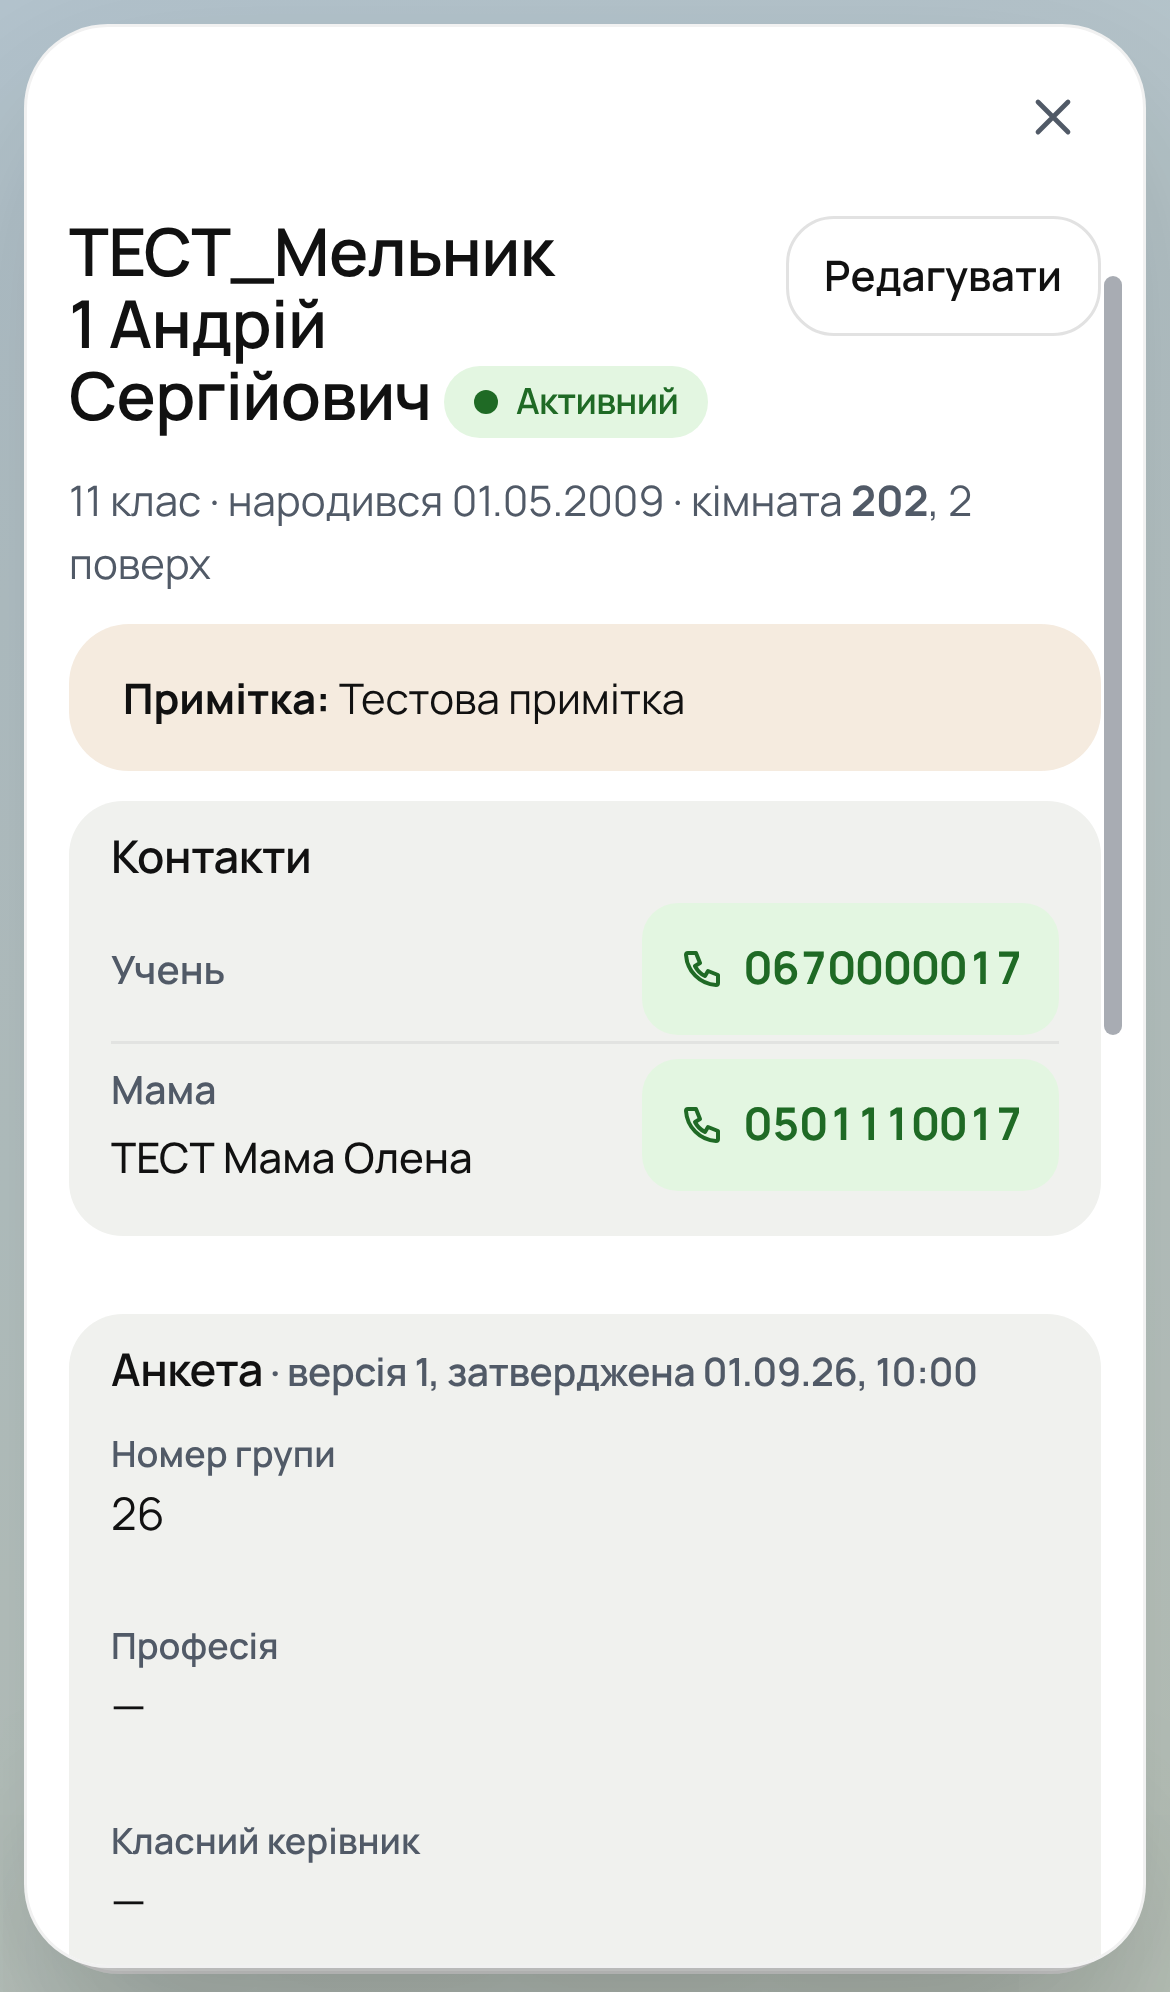
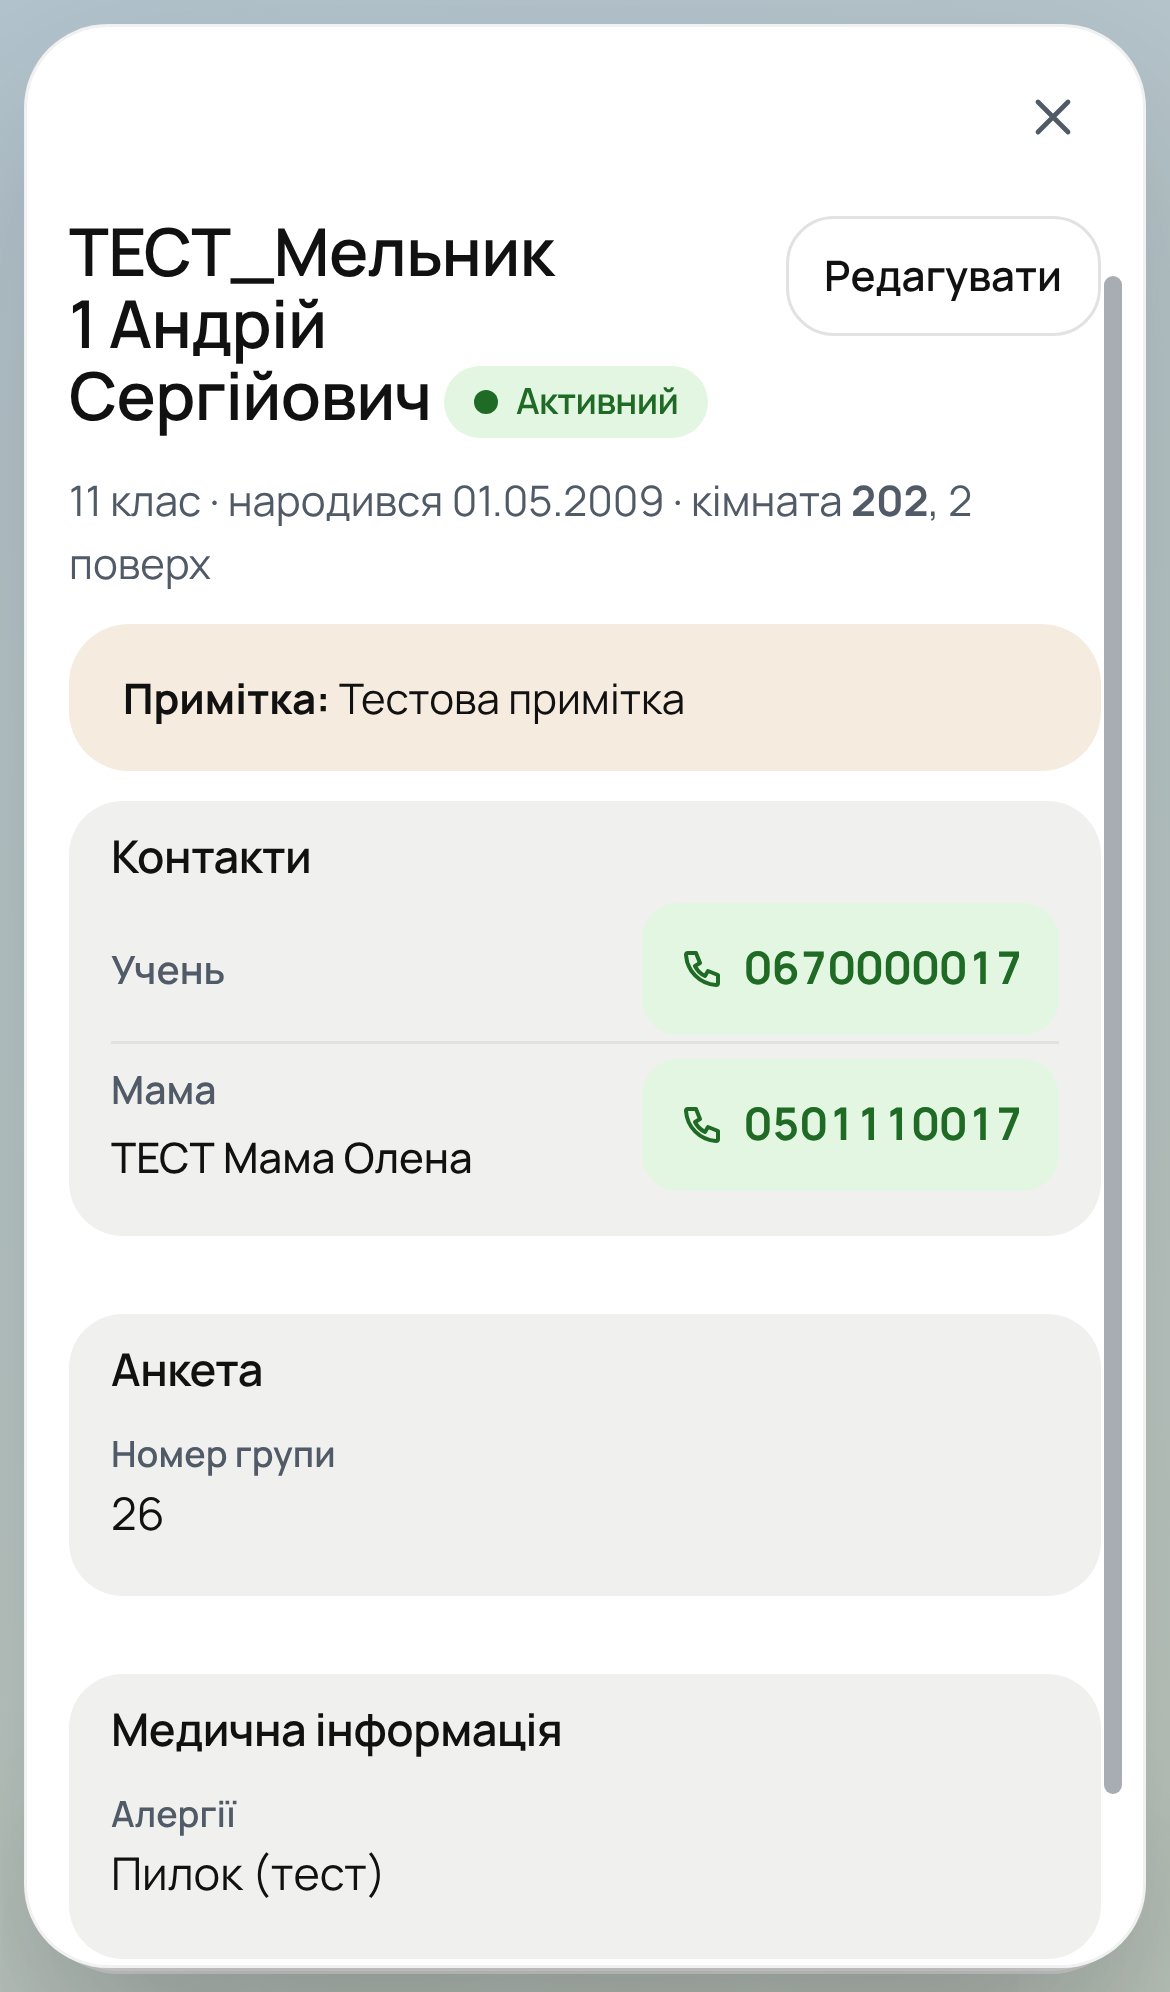
Картка учня: максимально проста — без оновлень даних, історії кімнат і версій анкети; медична інформація відкрита й лише за наявності
Claude-Session: https://claude.ai/code/session_0179mcXG9UhznU63hvADD4UN

diff --git a/src/pages/StudentCardPage.tsx b/src/pages/StudentCardPage.tsx
@@ -1,40 +1,34 @@
-import { useContext, useEffect, useState, type ReactNode } from 'react'
+import { useContext, useEffect, useState } from 'react'
 import { createPortal } from 'react-dom'
 import { DrawerTitleSlot } from '../components/ui/drawerContext'
 import { Link, useParams } from 'react-router-dom'
 import { useAuth } from '../auth/useAuth'
 import { PhoneLink } from '../components/PhoneLink'
 import { StatusBadge } from '../components/StatusBadge'
-import { UpdateLinksPanel } from '../components/UpdateLinksPanel'
-import { fullName, formatDate, formatDateTime, isStudentStatus } from '../lib/format'
+import { fullName, formatDate, isStudentStatus } from '../lib/format'
 import { supabase } from '../lib/supabase'
 import { useLoad } from '../lib/useLoad'
 
-const VERSION_LABELS: Record<string, string> = {
-  approved: 'чинна', superseded: 'застаріла', pending: 'очікує підтвердження', rejected: 'відхилена',
-}
-
 type RoomRef = { number: string; floor: number } | null
-type Named = { full_name: string } | null
 
 async function loadCard(id: string, withMedical: boolean) {
   const [st, asg, ver, med] = await Promise.all([
     supabase.from('students').select('*').eq('id', id).maybeSingle(),
     supabase
       .from('room_assignments')
-      .select('id,from_date,to_date,reason,end_reason, rooms!room_assignments_room_id_fkey(number,floor), mover:profiles!room_assignments_moved_by_fkey(full_name), ender:profiles!room_assignments_ended_by_fkey(full_name)')
+      .select('id,to_date, rooms!room_assignments_room_id_fkey(number,floor)')
       .eq('student_id', id)
       .order('from_date', { ascending: false })
       .order('created_at', { ascending: false }),
     supabase
       .from('student_profiles')
-      .select('*, approver:profiles!student_profiles_approved_by_fkey(full_name), rejecter:profiles!student_profiles_rejected_by_fkey(full_name)')
+      .select('*')
       .eq('student_id', id)
       .order('version_no', { ascending: false }),
     withMedical
       ? supabase
           .from('student_medical')
-          .select('*, creator:profiles!student_medical_created_by_fkey(full_name), updater:profiles!student_medical_updated_by_fkey(full_name)')
+          .select('*')
           .eq('student_id', id)
           .maybeSingle()
       : Promise.resolve({ data: null, error: null }),
@@ -47,13 +41,7 @@ async function loadCard(id: string, withMedical: boolean) {
   return { student: st.data, assignments: asg.data, versions: ver.data, medical: med.data }
 }
 
-/** Картка учня: окрема сторінка (/students/:id) або вміст бічної шухляди (`studentId` + `embedded`). */
-/** Додатковий розділ: на окремій сторінці — звичайна панель, у шухляді — згорнута (щоб не перевантажувати картку). */
-function Extra({ id, title, embedded, children }: { id: string; title: string; embedded: boolean; children: ReactNode }) {
-  if (!embedded) return <section className="panel" aria-labelledby={id}><h2 id={id}>{title}</h2>{children}</section>
-  return <details className="panel fold"><summary id={id}>{title}</summary>{children}</details>
-}
-
+/** Картка учня: окрема сторінка (/students/:id) або вміст бічної шухляди (`studentId` + `embedded`). Максимально проста: контакти, анкета, медична інформація (лише якщо є). */
 export function StudentCardPage({ studentId, embedded = false }: { studentId?: string; embedded?: boolean } = {}) {
   const params = useParams<{ id: string }>()
   const id = studentId ?? params.id ?? ''
@@ -89,6 +77,7 @@ export function StudentCardPage({ studentId, embedded = false }: { studentId?: s
     { label: 'Тато', name: current?.father_name ?? null, phone: current?.father_phone ?? null },
     { label: current?.guardian_relation ? `Опікун (${current.guardian_relation})` : 'Опікун', name: current?.guardian_name ?? null, phone: current?.guardian_phone ?? null },
   ]
+  const hasMedical = !!(medical && [medical.allergies, medical.chronic_conditions, medical.notes].some((v) => v && v.trim()))
   const shownContacts = contacts.filter((c) => c.phone || (c.label !== 'Учень' && c.name))
   const answers: [string, string | null | undefined][] = current
     ? [
@@ -139,83 +128,24 @@ export function StudentCardPage({ studentId, embedded = false }: { studentId?: s
       </section>
 
       <section className="panel" aria-labelledby="profile-h">
-        <h2 id="profile-h">Анкета{current && <span className="muted small"> · версія {current.version_no}, затверджена {formatDateTime(current.approved_at)}</span>}</h2>
+        <h2 id="profile-h">Анкета</h2>
         {current ? (
           <dl className="kv">
-            {answers.map(([k, v]) => (<div key={k}><dt>{k}</dt><dd>{v || '—'}</dd></div>))}
+            {answers.filter(([, v]) => v && v.trim()).map(([k, v]) => (<div key={k}><dt>{k}</dt><dd>{v}</dd></div>))}
           </dl>
         ) : <p className="muted">Затверджена анкета відсутня.</p>}
       </section>
 
-      {canEdit && (
-        <Extra id="med-h" title="Медична інформація" embedded={embedded}>
-          {medical ? (
-            <>
-              <dl className="kv">
-                <div><dt>Алергії</dt><dd>{medical.allergies || '—'}</dd></div>
-                <div><dt>Хронічні хвороби</dt><dd>{medical.chronic_conditions || '—'}</dd></div>
-                <div><dt>Примітки</dt><dd>{medical.notes || '—'}</dd></div>
-              </dl>
-              <p className="muted small">
-                Внесено: {(medical.creator as unknown as Named)?.full_name ?? '—'} · востаннє змінено: {(medical.updater as unknown as Named)?.full_name ?? 'учнем/системою'}, {formatDateTime(medical.updated_at)}
-              </p>
-            </>
-          ) : <p className="muted">Медичних даних немає.</p>}
-          <p className="muted small">Видно лише адміністраторам і вихователям.</p>
-        </Extra>
+      {canEdit && hasMedical && (
+        <section className="panel" aria-labelledby="med-h">
+          <h2 id="med-h">Медична інформація</h2>
+          <dl className="kv">
+            {medical?.allergies?.trim() && <div><dt>Алергії</dt><dd>{medical.allergies}</dd></div>}
+            {medical?.chronic_conditions?.trim() && <div><dt>Хронічні хвороби</dt><dd>{medical.chronic_conditions}</dd></div>}
+            {medical?.notes?.trim() && <div><dt>Примітки</dt><dd>{medical.notes}</dd></div>}
+          </dl>
+        </section>
       )}
-
-      {canEdit && status === 'active' && (embedded
-        ? <details className="panel fold"><summary>Оновлення даних учнем</summary><UpdateLinksPanel studentId={id} canCreate /></details>
-        : <UpdateLinksPanel studentId={id} canCreate />)}
-
-      <Extra id="rooms-h" title="Історія кімнат" embedded={embedded}>
-        {assignments.length === 0 ? <p className="muted">Ще не заселявся.</p> : (
-          <div className="table-wrap" tabIndex={0} role="region" aria-label="Історія кімнат">
-            <table className="data">
-              <thead><tr><th scope="col">Кімната</th><th scope="col">З</th><th scope="col">По</th><th scope="col">Хто / чому</th></tr></thead>
-              <tbody>
-                {assignments.map((a) => {
-                  const r = a.rooms as unknown as RoomRef
-                  return (
-                    <tr key={a.id}>
-                      <td>{r ? `${r.number} (${r.floor} пов.)` : '—'}</td>
-                      <td>{formatDate(a.from_date)}</td>
-                      <td>{a.to_date ? formatDate(a.to_date) : 'тепер'}</td>
-                      <td>
-                        {(a.mover as unknown as Named)?.full_name ?? '—'}{a.reason ? ` — ${a.reason}` : ''}
-                        {a.to_date && (<><br /><span className="muted small">виселив: {(a.ender as unknown as Named)?.full_name ?? '—'}{a.end_reason ? ` — ${a.end_reason}` : ''}</span></>)}
-                      </td>
-                    </tr>
-                  )
-                })}
-              </tbody>
-            </table>
-          </div>
-        )}
-      </Extra>
-
-      <Extra id="hist-h" title="Версії анкети" embedded={embedded}>
-        {versions.length === 0 ? <p className="muted">Версій немає.</p> : (
-          <ul className="plain versions">
-            {versions.map((v) => {
-              const by = v.status === 'rejected' ? (v.rejecter as unknown as Named) : (v.approver as unknown as Named)
-              return (
-                <li key={v.id}>
-                  <strong>Версія {v.version_no}</strong>{' '}
-                  <span className={`tag tag-v-${v.status}`}>{VERSION_LABELS[v.status] ?? v.status}</span>
-                  <span className="muted small">
-                    {' '}· подано {formatDateTime(v.submitted_at)}
-                    {v.status === 'approved' || v.status === 'superseded' ? ` · затвердив(ла): ${by?.full_name ?? '—'}, ${formatDateTime(v.approved_at)}` : ''}
-                    {v.status === 'rejected' ? ` · відхилив(ла): ${by?.full_name ?? '—'}, ${formatDateTime(v.rejected_at)}` : ''}
-                  </span>
-                </li>
-              )
-            })}
-          </ul>
-        )}
-        {canEdit && versions.some((v) => v.status === 'pending') && <p><Link to="/forms/updates">Є версії, що чекають підтвердження →</Link></p>}
-      </Extra>
     </article>
   )
 }

diff --git a/ux-audit/REPORT.md b/ux-audit/REPORT.md
@@ -39,6 +39,7 @@
 | U-29 | Студенти, телефон | iPhone | Вибраний чіп поверху після дотику нечитабельний: `:hover` залипає (світлий фон + білий текст) | натиснути «4 пов.» | висока | **виправлено**: ховер лише для миші (`@media (hover: hover)`), глобально вимкнено залипання hover для кнопок/чіпів на touch; e2e на контраст |
 | U-30 | Нижнє меню, телефон | iPhone | Пункти не на всю ширину, градієнтна маска справа, меню високо над краєм | — | низька | **виправлено**: рівномірні пункти, без маски, нижче (`--tab-bottom`) |
 | U-31 | «+» у вихователя | iPhone | У PIN-сесії (права вихователя) є лише «Додати учня», тому «+» одразу відкриває форму — за задумом прав (кімнати додає лише адмін) | — | — | пояснення, не помилка |
+| U-32 | Картка учня | всі | Занадто багато інформації: «Оновлення даних», «Історія кімнат», «Версії анкети», згорнута медична інформація | відкрити картку | середня | **виправлено за вимогою власника**: ці блоки прибрано; медична інформація завжди відкрита й лише якщо є (порожні поля не показуємо); анкета без «—» і без версії; зайві запити (історія, автори версій) прибрано; `e2e/student-card.mjs` |
 
 ## Не перевірено
 Живі дані/RLS/реальні помилки Supabase, публічна анкета `#/form/:token` з реальним токеном, затвердження оновлень, діалоги кімнат, перегляд документів (docx), клавіатура на реальному пристрої, контраст (автоматично не вимірювався).
